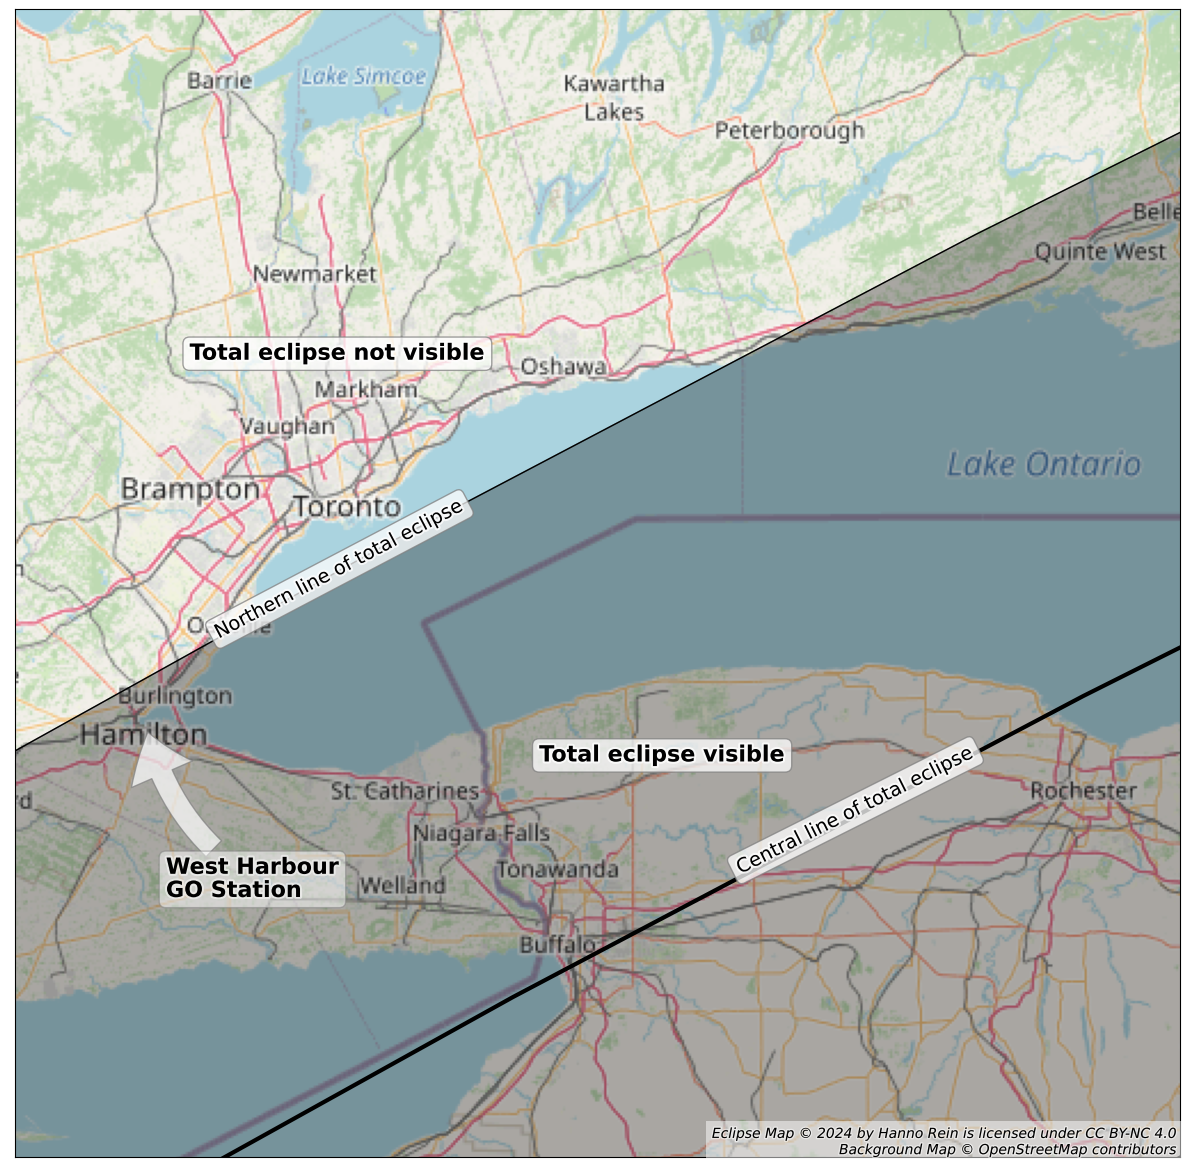
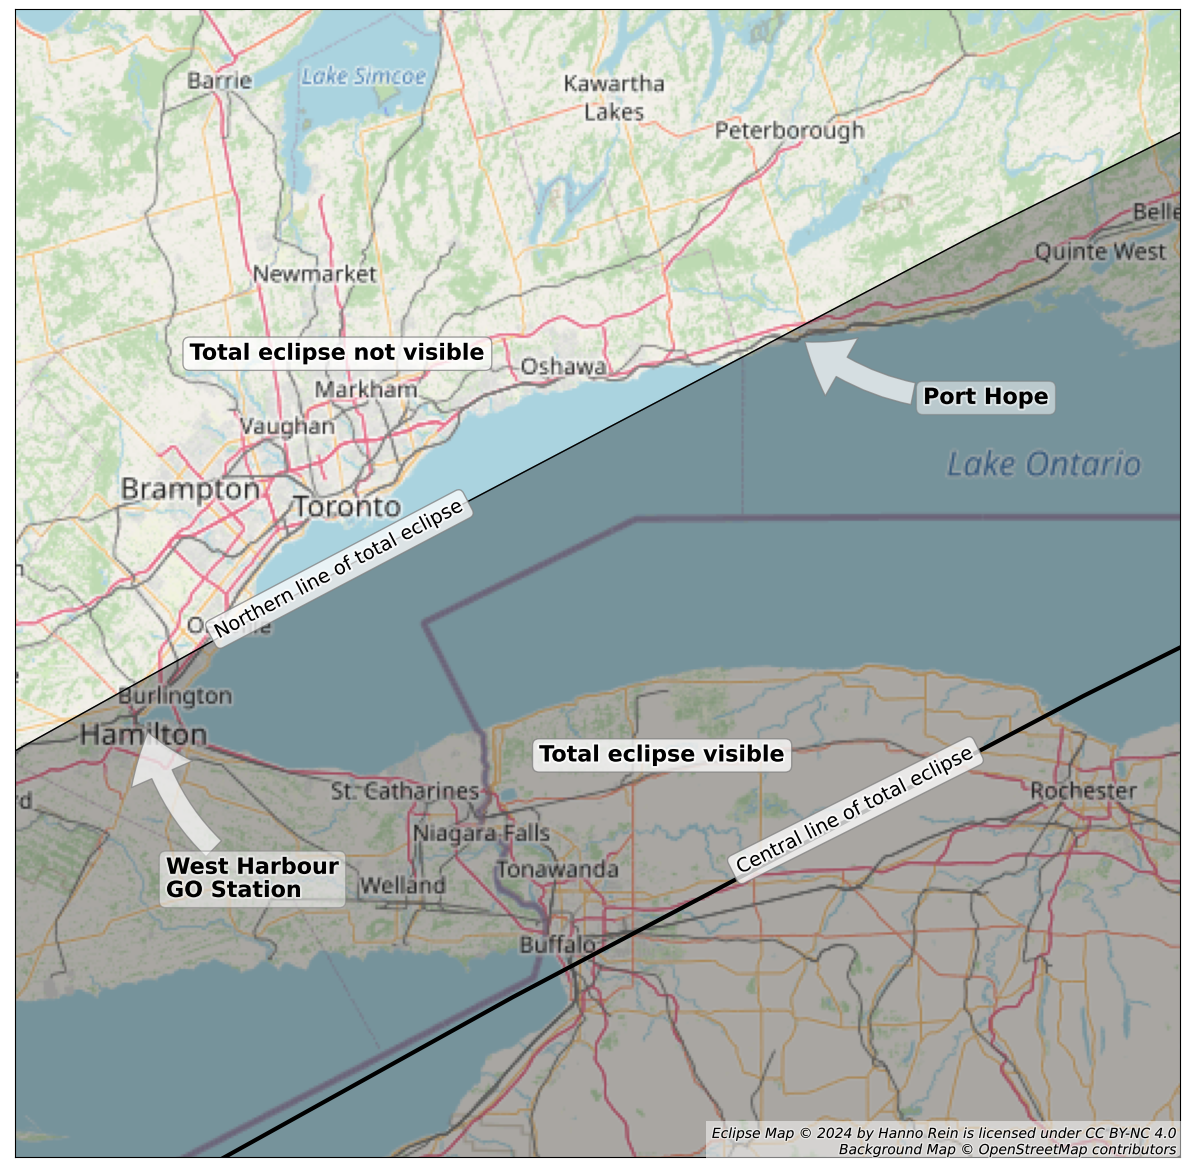
minor

Changed region(s): [[0.6846, 0.2765, 0.9024, 0.3686]]

diff --git a/index.html b/index.html
@@ -94,7 +94,9 @@
                         <h3>I am an Associate Professor at the University of Toronto. 
 			I develop numerical methods to solve problems in astrophysics. 
 			I have developed many numerical integrators and the N-body code <a href="https://github.com/hannorein/rebound">REBOUND</a>.
-            I am also the developer of several iOS outreach apps such as <a href="https://apps.apple.com/us/app/exoplanet/id327702034">Exoplanet</a> and <a href="https://apps.apple.com/us/app/comet-neowise/id1523594527">Comet Neowise</a>, and most recently <a href="https://apps.apple.com/us/app/mega-constellations/id1598820453">Mega Constellations</a>.</h3>
+            I am also the developer of several iOS outreach apps such as <a href="https://apps.apple.com/us/app/exoplanet/id327702034">Exoplanet</a> and <a href="https://apps.apple.com/us/app/comet-neowise/id1523594527">Comet Neowise</a>, and most recently <a href="https://apps.apple.com/us/app/mega-constellations/id1598820453">Mega Constellations</a>.
+			Learn more about the upcoming <a href="/eclipse/">Solar Eclipse</a> on Aptil 8th 2024.
+                        </h3>
                         <hr class="intro-divider">
                     </div>
                 </div>

diff --git a/eclipse/index.html b/eclipse/index.html
@@ -127,12 +127,12 @@
                 West Harbour might be your best bet - it is furtherst station from Toronto which is serviced every 60 minutes. 
                 </p>
                 <p>
-                Coming from Toronto and travelling east, the first town where you can see the total eclipse for a few seconds is Cobourg. 
+                Coming from Toronto and travelling east, the first town where you can see the total eclipse for a few seconds is Port Hope. 
                 In the Kingston area, you can see the total eclipse for about 2 minutes. 
                 If you make it across the border and are in Watertown NY by 3:25pm, then you will experience totality for about 4 minutes. 
                 </p>
                 <p>
-                <b>Whether you travel by car or public transit, expect the roads and trains to be very busy the entire day!</b>
+                <b>Whether you travel by car or public transit, expect the roads and trains to be very busy the entire day!</b> I suggest you pack some drinks, food, and a good book and then head out before sunrise to beat the traffic.
                 </p>
             </div>
             <div class="col-md-6">
